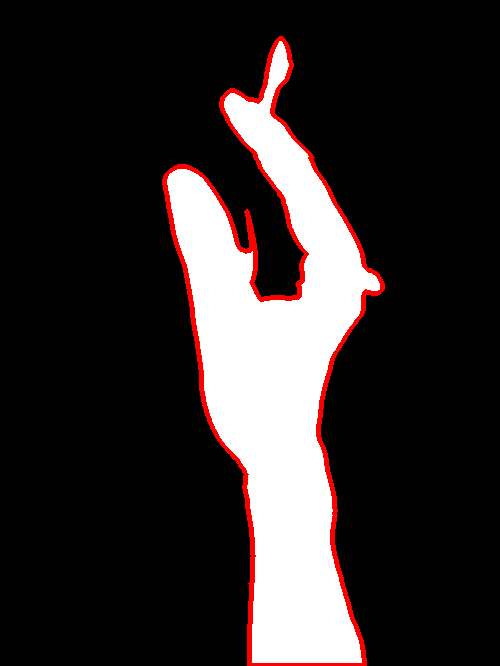
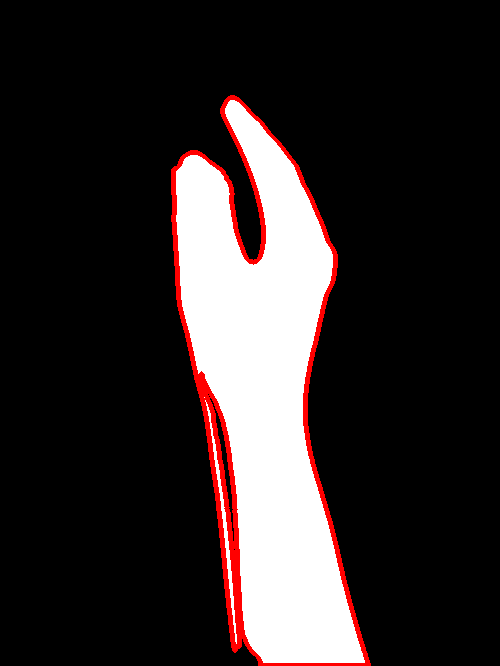
부산 작업용 저장

Changed region(s): [[0.3, 0.0601, 0.78, 1.0], [0.72, 0.961, 0.75, 1.0]]

diff --git a/openCVSamples/toGreed.py b/openCVSamples/toGreed.py
@@ -35,7 +35,7 @@ def contour(image):
     img_hsv = cv2.fastNlMeansDenoisingColored(img_hsv, None, 10, 10, 7, 21) # 노이즈제거
 
     lower = np.array([0, 50, 80], dtype="uint8") # 최소 범위
-    upper = np.array([120, 255, 255], dtype="uint8") # 최대 범위
+    upper = np.array([70, 255, 255], dtype="uint8") # 최대 범위
 
     img_hand = cv2.inRange(img_hsv, lower, upper) # 범위 내 이미지 추출
 
@@ -69,6 +69,6 @@ def contour(image):
 
     # 이미지 보여주기
     cv2.imwrite('contour.png',img_hand)
-
+    cv2.imwrite('hsv2.png', img_hsv)
 
     return img_hand

diff --git a/openCVSamples/toGreed2.py b/openCVSamples/toGreed2.py
@@ -36,7 +36,7 @@ def contour(image):
     img_hsv = cv2.fastNlMeansDenoisingColored(img_hsv, None, 10, 10, 7, 21) # 노이즈제거
 
     lower = np.array([0, 50, 80], dtype="uint8") # 최소 범위
-    upper = np.array([120, 255, 255], dtype="uint8") # 최대 범위
+    upper = np.array([50, 255, 255], dtype="uint8") # 최대 범위
 
     img_hand = cv2.inRange(img_hsv, lower, upper) # 범위 내 이미지 추출
 
@@ -74,5 +74,6 @@ def contour(image):
 
     # 이미지 보여주기
     cv2.imwrite('contour2.png',img_hand)
+    cv2.imwrite('hsv2.png',img_hsv)
 
     return img_hand

diff --git a/openCVSamples/tcpServer.py b/openCVSamples/tcpServer.py
@@ -59,6 +59,8 @@ def access():
         length = client_socket.recv(4)
         leng = int.from_bytes(length, byteorder='big', signed=False)
         print(leng)
+        if leng==0:
+            client_socket.close()
         img_data = client_socket.recv(1024)
         sum_data2.extend(img_data)
         while img_data:
